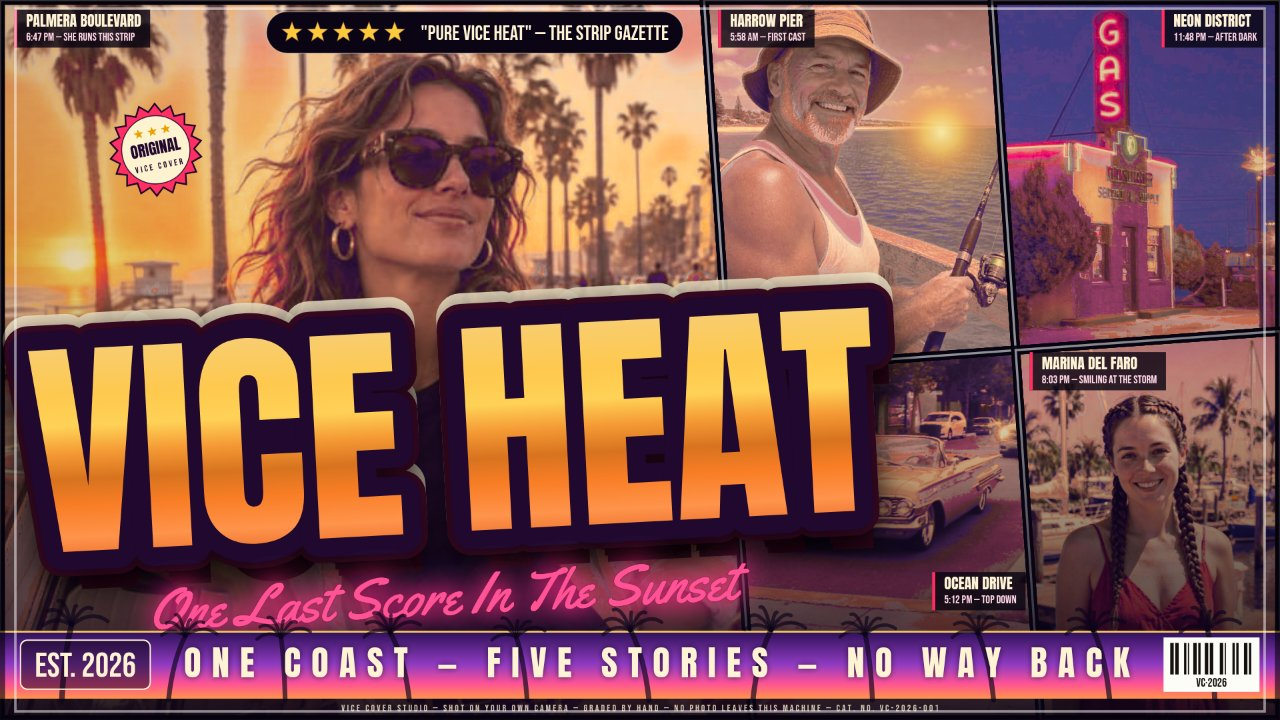
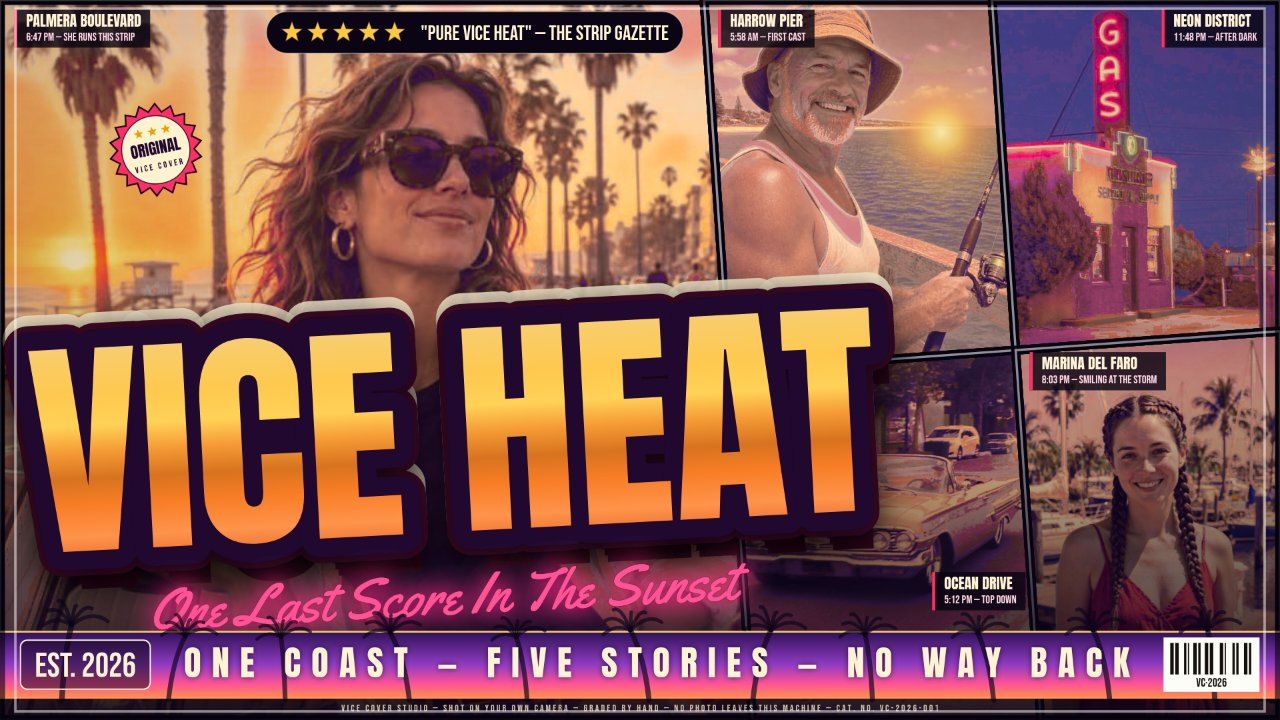
Round 35: cruiser reframed larger, dead road cut

Changed region(s): [[0.5625, 0.4889, 0.8125, 0.8861]]

diff --git a/app/src/shots.js b/app/src/shots.js
@@ -57,16 +57,22 @@ export async function runShot(shot, query, helpers) {
   // The Blockbuster Grid showcase's scene panels get their own
   // framings, for the same reason the hero does. The cruiser photo
   // (round 34: the 1960 Impala convertible street scene restored
-  // from round 26 — silver car whole at photo x 0.06–0.83,
-  // y 0.42–0.66, two people aboard small and distant, a foreground
+  // from round 26 — silver car whole at photo x 0.10–0.80,
+  // y 0.41–0.62, two people aboard small and distant, a foreground
   // of plain asphalt and sidewalk below) takes the bottom-left cell
   // the causeway aerial held: the cell only shows its lower strip
-  // clear of the letters, so the showcase frames the window
-  // (photo x 0.03–0.90, y 0.25–0.94 at zoom 1.15) to hold the whole
-  // car in that strip — the car lands at cell y 0.24–0.60, its
-  // front at cell x 0.04 — and the panel's chip, which the buried
-  // rule parks low in that same cell, lands on the asphalt under
-  // the car's tail, clear of the body. The neon scene (round 18: a
+  // clear of the letters, so the showcase frames the window to hold
+  // the whole car in that strip, and the panel's chip, which the
+  // buried rule parks low in that same cell, lands on the asphalt
+  // under the car's tail, clear of the body. Round 35 tightens the
+  // window on the car (zoom 1.38, photo x 0.11–0.84, y 0.25–0.82):
+  // at the round-34 window the car read small over a deep field of
+  // empty road, so now the car grows ~44% in cell area (its box
+  // fills 0.41 of the cell, up from 0.29), the fin's tip and the
+  // rear bumper bullet stay a few px inside the cell's slanted
+  // right edge, the rear tyre's bottom stays above the chip, and
+  // the road left showing below the car is a shallow strip, most
+  // of it behind the banner. The neon scene (round 18: a
   // vintage American service station at dusk, its tall red GAS blade
   // sign lit) is framed so the sign and the station front read whole
   // in its top-right cell and the panel's chip — which hangs at that
@@ -74,7 +80,7 @@ export async function runShot(shot, query, helpers) {
   // Any other scene keeps the renderer's default framing exactly.
   const showcaseScene = state.layout === 'grid' && state.grade === 'blockbuster';
   const cruiserFrame = (showcaseScene && third.endsWith('cruiser.jpg'))
-    ? { zoom: 1.15, ox: 0.49, oy: -0.6 }
+    ? { zoom: 1.38, ox: 0.18, oy: -0.16 }
     : undefined;
   const neonFrame = (showcaseScene && fourth.endsWith('neon.jpg'))
     ? { zoom: 1.1, ox: -0.44, oy: 0.55 }
